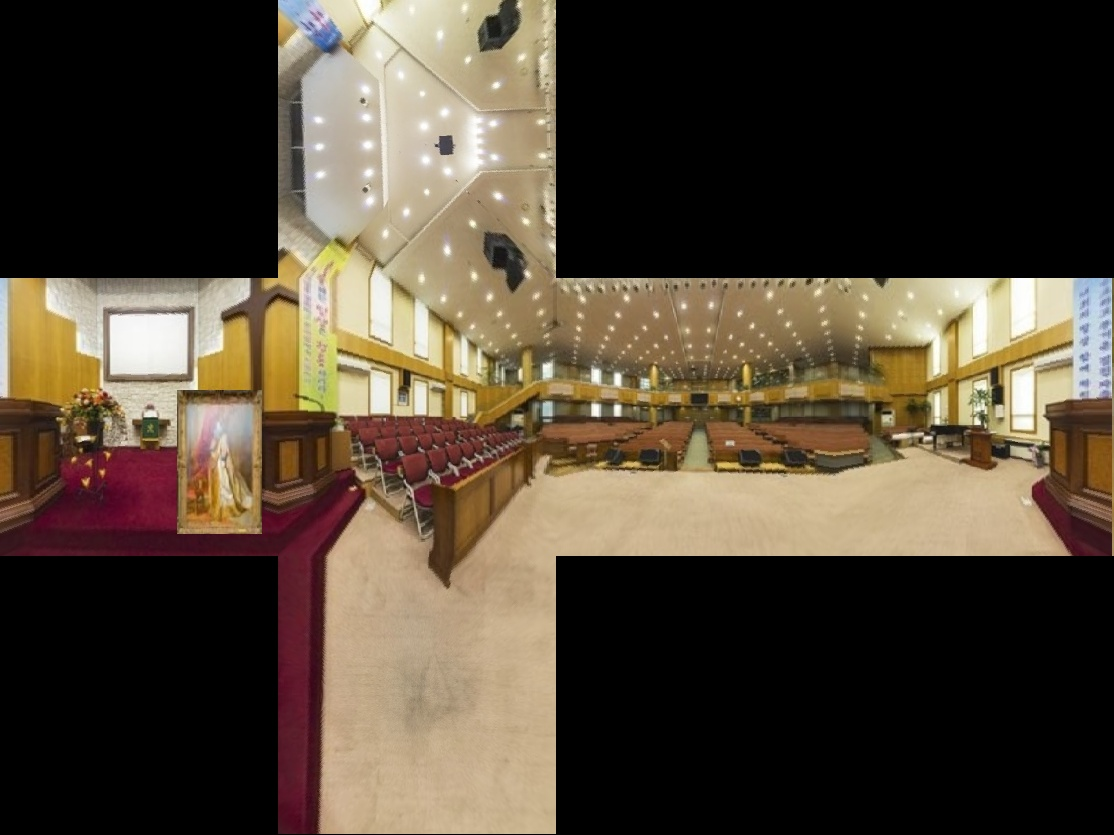
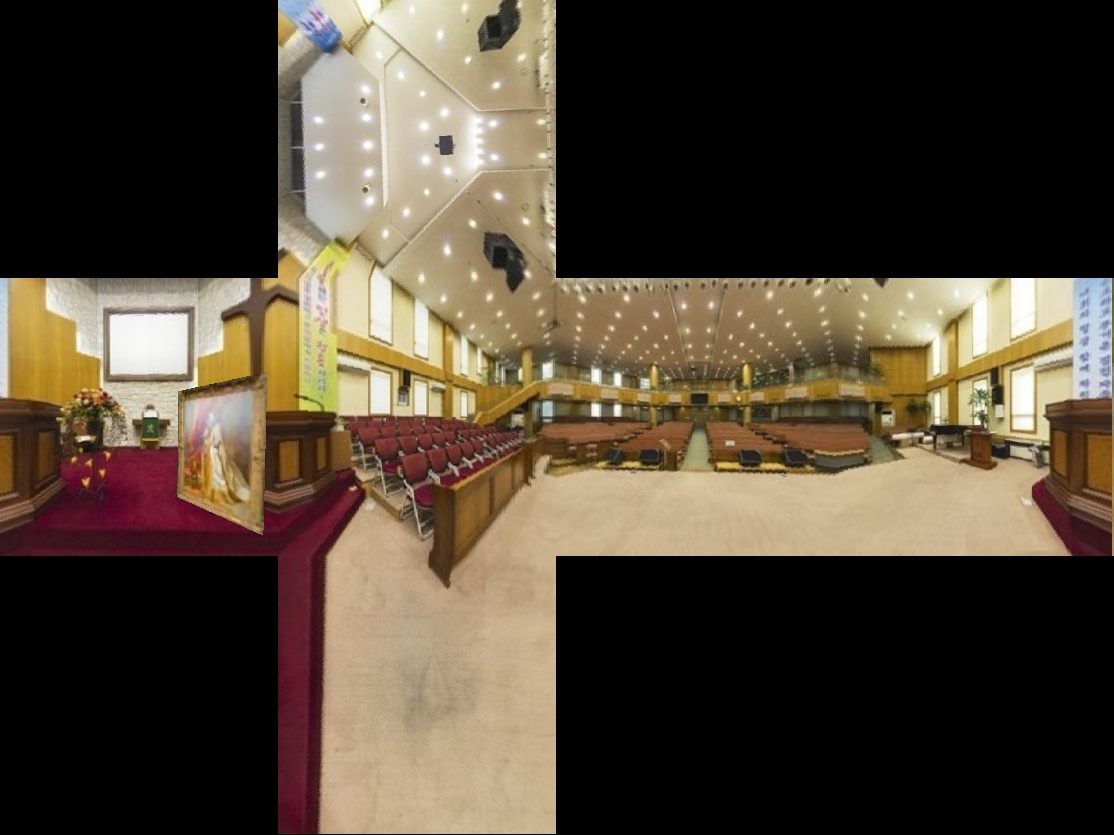
code update

Changed region(s): [[0.1526, 0.4359, 0.2442, 0.6539]]

diff --git a/OpenCV/OpenCV.cpp b/OpenCV/OpenCV.cpp
@@ -58,7 +58,6 @@ AxisDouble CalcThetaPhiToXYZ(double theta, double phi);
 AxisDouble CalcCubicXYZ(double x, double y, double z);
 void GenView(Mat SourceImg);
 void KeyDownEvent(int ch, Mat SourceImg);
-void InsertClip(Mat SourceImg);
 
 /*
 	Image Interpolation
@@ -568,6 +567,35 @@ Mat CvtSph2Cub(Mat* pano) {
 }
 
 /*
+	직선의 방정식
+*/
+
+float left(int y, vector<Point2f>& corners)
+{
+	float m = (corners[3].y - corners[0].y) / (corners[3].x - corners[0].x);
+	float x = (1 / m) * (y - corners[3].y) + corners[3].x;
+	return x;
+
+}
+float right(int y, vector<Point2f>& corners)
+{
+	float m = (corners[2].y - corners[1].y) / (corners[2].x - corners[1].x);
+	float x = (1 / m) * (y - corners[2].y) + corners[2].x;
+	return x;
+}
+float topEquation(int x, vector<Point2f>& corners)
+{
+	float m = (corners[1].y - corners[0].y) / (corners[1].x - corners[0].x);
+	float y = m * (x - corners[1].x) + corners[1].y;
+	return y;
+}
+float bottom(int x, vector<Point2f>& corners)
+{
+	float m = (corners[2].y - corners[3].y) / (corners[2].x - corners[3].x);
+	float y = m * (x - corners[2].x) + corners[2].y;
+	return y;
+}
+/*
 	SURF
 */
 static void workBegin()
@@ -665,8 +693,6 @@ static Mat drawGoodMatches(
 	inverse_corner = obj_corners;
 	scene_corners_ = scene_corners;
 
-	
-
 	//-- Draw lines between the corners (the mapped object in the scene - image_2 )
 	line(img_matches,
 		scene_corners[0] + Point2f((float)img1.cols, 0), scene_corners[1] + Point2f((float)img1.cols, 0),
@@ -736,7 +762,6 @@ int main(int argc, char* argv[])
 
 	//instantiate detectors/matchers
 	SURFDetector surf;
-
 	SURFMatcher<BFMatcher> matcher;
 
 	//-- start of timing section
@@ -767,46 +792,67 @@ int main(int argc, char* argv[])
 	imshow("surf matches", img_matches);
 	imwrite(outpath, img_matches);
 
-	
-
-	//templateMatch(img_matches, corner, img1.getMat(ACCESS_READ));
-
 	// 일치하는 오브젝트 위치 표시하는 사각형 그리기
 
-	Point2f leftTop = corner[0];
-	Point2f rightBottom = corner[2];
+	float minX = min(min(corner[0].x, corner[1].x), min(corner[2].x, corner[3].x));
+	float minY = min(min(corner[0].y, corner[1].y), min(corner[2].y, corner[3].y));
 
-	line(img2, corner[0], corner[1], Scalar(0, 255, 0), 2, LINE_AA);
-	line(img2, corner[1], corner[2], Scalar(0, 255, 0), 2, LINE_AA);
-	line(img2, corner[2], corner[3], Scalar(0, 255, 0), 2, LINE_AA);
-	line(img2, corner[3], corner[0], Scalar(0, 255, 0), 2, LINE_AA);
-	//imshow("draw square", img2);
-    
+	float maxX = max(max(corner[0].x, corner[1].x), max(corner[2].x, corner[3].x));
+	float maxY = max(max(corner[0].y, corner[1].y), max(corner[2].y, corner[3].y));
+
+	Point2f leftTop = Point2f(minX, minY);
+	Point2f rightBottom = Point2f(maxX, maxY);
+
 	/*
-		이미지 대치
+		큐브맵 이미지의 패턴 영역 그리기
 	*/
+	line(img2, corner[0], corner[1], Scalar(0, 0, 255), 2, LINE_AA);
+	line(img2, corner[1], corner[2], Scalar(0, 0, 255), 2, LINE_AA);
+	line(img2, corner[2], corner[3], Scalar(0, 0, 255), 2, LINE_AA);
+	line(img2, corner[3], corner[0], Scalar(0, 0, 255), 2, LINE_AA);
+
+	/*
+		큐브맵 이미지 패턴 영역의 바운딩 박스 그리기
+	*/
+	line(img2, leftTop, Point2f(rightBottom.x, leftTop.y), Scalar(0, 255, 0), 2, LINE_AA);
+	line(img2, Point2f(rightBottom.x, leftTop.y), rightBottom, Scalar(0, 255, 0), 2, LINE_AA);
+	line(img2, rightBottom, Point2f(leftTop.x, rightBottom.y), Scalar(0, 255, 0), 2, LINE_AA);
+	line(img2, Point2f(leftTop.x, rightBottom.y), leftTop, Scalar(0, 255, 0), 2, LINE_AA);
+	imshow("draw square", img2);
+
 	int width, height;
 	width = rightBottom.x - leftTop.x;
 	height = rightBottom.y - leftTop.y;
 	Mat tempImg;
 	Mat temp = imread("temp.jpg");
-	
-	cv::resize(temp, tempImg, Size(width, height), 0, 0);
 
-	for (int j = 0; j < height; j++)
+	cv::resize(temp, tempImg, Size(img1.cols, img1.rows), 0, 0);
+	
+	for (int y = leftTop.y; y < rightBottom.y; y++)
 	{
-		for (int i = 0; i < width; i++)
+		for (int x = leftTop.x; x < rightBottom.x; x++)
 		{
-			SphericalToCubemap.at<Vec3b>(leftTop.y + j , leftTop.x + i) = tempImg.at<Vec3b>(j, i);
+			if (y > topEquation(x, corner) && y < bottom(x, corner) && x > left(y, corner) && x < right(y, corner))
+			{
+				vector<Point2f> xy(1), convert(1);
+				xy[0] = Point(x, y);
+
+				perspectiveTransform(xy, convert, inverse);
+				SphericalToCubemap.at<Vec3b>(y, x) = tempImg.at<Vec3b>(int(convert[0].y), int(convert[0].x));
+			}
 		}
 	}
+    
+	/*
+		이미지 대치
+	*/
 	
 	imwrite(result, SphericalToCubemap);
 
     Mat matched_Cubemap = imread("result.jpg");
     Mat resultSph = CvtCub2Sph(&matched_Cubemap, &srcImage);
 
-    //imshow("spherical Image", resultSph);
+    imshow("spherical Image", resultSph);
 
 	GenView(resultSph);
 
